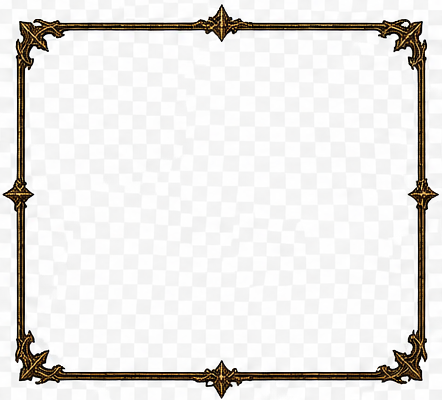
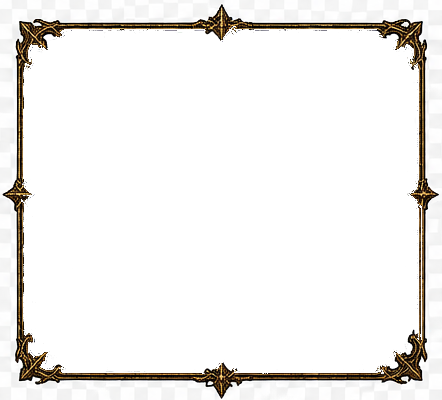
ddd

diff --git a/generatore.html b/generatore.html
@@ -5,10 +5,15 @@
     <meta name="viewport" content="width=device-width, initial-scale=1.0">
     <style>
         body {
-            background-image: url('assets/DT_Sfondo_Generatore.png'); /* Il tuo sfondo */
-            background-repeat: repeat;
+            background-color: #000; 
+            /* PUNTO 4: Sfondo pergamena con il tuo file */
+            background-image: url('assets/DT_Sfondo_Generatore.png');
+            background-size: 1200px auto; 
+            background-repeat: no-repeat;
+            background-position: top center;
+            background-attachment: scroll;
             margin: 0;
-            padding: 20px;
+            padding: 0;
             font-family: 'Garamond', serif;
             display: flex;
             flex-direction: column;
@@ -16,65 +21,117 @@
         }
 
         .header-logo {
-            max-width: 100%;
-            width: 500px;
-            margin-bottom: 20px;
+            max-width: 90%;
+            width: 600px;
+            margin: 40px 0 20px 0;
         }
 
+        /* PUNTO 2: Banner nero largo con testo bianco */
         .banner-istruzioni {
             background-color: #000;
-            color: #ff4444;
             width: 100%;
-            max-width: 900px;
+            max-width: 1200px;
             text-align: center;
-            padding: 10px 0;
-            border: 2px solid #d3a96c;
-            border-radius: 5px;
-            margin-bottom: 40px;
-            box-shadow: 0 4px 10px rgba(0,0,0,0.5);
+            padding: 30px 0;
+            margin-bottom: 50px;
         }
 
+        /* Cornice Rossa Interna */
+        .box-rosso {
+            background-image: url('assets/cornice1.png'); 
+            background-size: 100% 100%;
+            background-repeat: no-repeat;
+            background-position: center;
+            padding: 20px 40px;
+            display: inline-block;
+            min-width: 300px;
+            max-width: 90%;
+        }
+
+        .box-rosso h2 {
+            margin: 0;
+            font-size: 1.6em;
+            color: #FFF;
+            text-transform: uppercase;
+        }
+
+        .box-rosso p {
+            margin: 5px 0 0 0;
+            font-size: 1em;
+            color: #FFF;
+        }
+
+        /* PUNTO 1: Griglia per 8 ingressi (4 per riga) */
         .grid-ingressi {
             display: grid;
-            grid-template-columns: repeat(auto-fit, minmax(200px, 1fr));
-            gap: 40px;
+            grid-template-columns: repeat(4, 220px); 
+            gap: 40px 20px; /* Spazio verticale 40px, orizzontale 20px */
+            justify-content: center;
             width: 100%;
             max-width: 1000px;
-            justify-items: center;
+            padding-bottom: 100px;
         }
 
-        /* IL CONTENITORE CON LA CORNICE */
         .cornice-box {
             position: relative;
-            width: 180px;  /* Regola in base alla tua cornice */
-            height: 240px; /* Regola in base alla tua cornice */
-            background-image: url('assets/cornice_ingresso.png'); /* La tua cornice PNG */
+            width: 220px;
+            height: 300px;
+            background-image: url('assets/cornice_ingresso.png');
             background-size: 100% 100%;
-            cursor: pointer;
-            transition: transform 0.3s ease;
+            background-repeat: no-repeat;
+            padding: 18px; /* Spazio per far respirare la mappa */
+            box-sizing: border-box;
             display: flex;
-            flex-direction: column;
-            align-items: center;
             justify-content: center;
+            align-items: center;
+            cursor: pointer;
+            transition: transform 0.3s;
         }
 
         .cornice-box:hover {
-            transform: scale(1.08);
+            transform: scale(1.05);
         }
 
-        /* L'IMMAGINE DELLA MAPPA DENTRO LA CORNICE */
         .mappa-img {
-            width: 75%; /* Spinge l'immagine dentro i bordi della cornice */
-            height: auto;
-            margin-bottom: 10px;
+            width: 100%;
+            height: 100%;
+            object-fit: contain; 
+            display: block;
         }
 
         .label-ingresso {
-            color: #d3a96c;
+            position: absolute;
+            bottom: -35px;
+            width: 100%;
+            text-align: center;
+            color: #FFF; 
             font-weight: bold;
             text-transform: uppercase;
-            font-size: 0.9em;
-            text-shadow: 1px 1px 2px #000;
+            font-size: 1em;
+            text-shadow: 2px 2px 4px #000;
+        }
+
+        /* PUNTO 2: RESPONSIVE PER SMARTPHONE */
+        @media (max-width: 900px) {
+            body {
+                background-size: cover; /* La pergamena si adatta allo schermo piccolo */
+            }
+            .grid-ingressi {
+                grid-template-columns: repeat(2, 160px); /* 2 per riga su mobile */
+                gap: 50px 15px;
+            }
+            .cornice-box {
+                width: 160px;
+                height: 220px;
+            }
+            .header-logo {
+                width: 80%;
+            }
+            .box-rosso {
+                min-width: 80%;
+            }
+            .box-rosso h2 { font-size: 1.2em; }
+            .box-rosso p { font-size: 0.8em; }
         }
     </style>
 </head>
@@ -83,22 +140,23 @@
     <img src="assets/Logo_DT_Esteso_Nero.png" class="header-logo">
 
     <div class="banner-istruzioni">
-        <h2 style="margin:0; font-size: 1.5em;">INGRESSO DEL DUNGEON</h2>
-        <p style="margin:5px 0 0 0;">Tirare <b>1D8</b> per il tipo di ingresso e cliccare sull'ingresso corrispondente</p>
+        <div class="box-rosso">
+            <h2>Ingresso del Dungeon</h2>
+            <p>Tirare <b>1D8</b> e cliccare sull'ingresso corrispondente</p>
+        </div>
     </div>
 
     <div class="grid-ingressi">
-        <div class="cornice-box" onclick="window.top.location.href='https://sites.google.com/view/generatore-dungeontales/ingresso-1'">
-            <img src="assets/ingresso-1.jpg" class="mappa-img">
-            <div class="label-ingresso">Ingresso 1</div>
-        </div>
-
-        <div class="cornice-box" onclick="window.top.location.href='https://sites.google.com/view/generatore-dungeontales/ingresso-2'">
-            <img src="assets/ingresso-2.png" class="mappa-img">
-            <div class="label-ingresso">Ingresso 2</div>
-        </div>
-
-        </div>
+        <div class="cornice-box" onclick="window.top.location.href='URL_INGRESSO_1'"><img src="assets/ingresso-1.jpg" class="mappa-img"><div class="label-ingresso">Ingresso 1</div></div>
+        <div class="cornice-box" onclick="window.top.location.href='URL_INGRESSO_2'"><img src="assets/ingresso-2.png" class="mappa-img"><div class="label-ingresso">Ingresso 2</div></div>
+        <div class="cornice-box" onclick="window.top.location.href='URL_INGRESSO_3'"><img src="assets/ingresso-3.png" class="mappa-img"><div class="label-ingresso">Ingresso 3</div></div>
+        <div class="cornice-box" onclick="window.top.location.href='URL_INGRESSO_4'"><img src="assets/ingresso-4.png" class="mappa-img"><div class="label-ingresso">Ingresso 4</div></div>
+        
+        <div class="cornice-box" onclick="window.top.location.href='URL_INGRESSO_5'"><img src="assets/ingresso-5.png" class="mappa-img"><div class="label-ingresso">Ingresso 5</div></div>
+        <div class="cornice-box" onclick="window.top.location.href='URL_INGRESSO_6'"><img src="assets/ingresso-6.png" class="mappa-img"><div class="label-ingresso">Ingresso 6</div></div>
+        <div class="cornice-box" onclick="window.top.location.href='URL_INGRESSO_7'"><img src="assets/ingresso-7.png" class="mappa-img"><div class="label-ingresso">Ingresso 7</div></div>
+        <div class="cornice-box" onclick="window.top.location.href='URL_INGRESSO_8'"><img src="assets/ingresso-8.png" class="mappa-img"><div class="label-ingresso">Ingresso 8</div></div>
+    </div>
 
 </body>
 </html>

diff --git a/generatore2.html b/generatore2.html
@@ -43,39 +43,47 @@
             justify-items: center;
         }
 
-        /* IL CONTENITORE CON LA CORNICE */
-        .cornice-box {
-            position: relative;
-            width: 180px;  /* Regola in base alla tua cornice */
-            height: 240px; /* Regola in base alla tua cornice */
-            background-image: url('assets/cornice_ingresso.png'); /* La tua cornice PNG */
-            background-size: 100% 100%;
-            cursor: pointer;
-            transition: transform 0.3s ease;
-            display: flex;
-            flex-direction: column;
-            align-items: center;
-            justify-content: center;
-        }
+		/* IL CONTENITORE CON LA CORNICE */
+		.cornice-box {
+			position: relative;
+			width: 200px;  /* Dimensione fissa per coerenza */
+			height: 280px; /* Proporzione verticale tipica delle tue cornici */
+			background-image: url('assets/cornice_ingresso.png'); /* Assicurati che il percorso sia corretto */
+			background-size: contain;
+			background-repeat: no-repeat;
+			background-position: center;
+			cursor: pointer;
+			transition: transform 0.3s ease;
+			display: flex;
+			flex-direction: column;
+			align-items: center;
+		}
 
-        .cornice-box:hover {
-            transform: scale(1.08);
-        }
+		.cornice-box:hover {
+			transform: scale(1.08);
+		}
 
-        /* L'IMMAGINE DELLA MAPPA DENTRO LA CORNICE */
-        .mappa-img {
-            width: 75%; /* Spinge l'immagine dentro i bordi della cornice */
-            height: auto;
-            margin-bottom: 10px;
-        }
+		/* L'IMMAGINE DELLA MAPPA DENTRO LA CORNICE */
+		.mappa-img {
+			position: absolute;
+			top: 15%;      /* Sposta la mappa verso il basso per centrarla nel vuoto della cornice */
+			width: 70%;    /* Riduce la dimensione della mappa per non coprire i bordi d'oro */
+			height: auto;
+			z-index: -1;   /* Opzionale: mette la mappa "dietro" la cornice se la cornice ha il centro trasparente */
+		}
 
-        .label-ingresso {
-            color: #d3a96c;
-            font-weight: bold;
-            text-transform: uppercase;
-            font-size: 0.9em;
-            text-shadow: 1px 1px 2px #000;
-        }
+		/* ETICHETTA SOTTO LA CORNICE */
+		.label-ingresso {
+			position: absolute;
+			bottom: -25px; /* Mette il testo fuori dalla cornice, in basso */
+			color: #d3a96c;
+			font-weight: bold;
+			text-transform: uppercase;
+			font-size: 0.9em;
+			text-shadow: 1px 1px 2px #000;
+			width: 100%;
+			text-align: center;
+		}
     </style>
 </head>
 <body>
